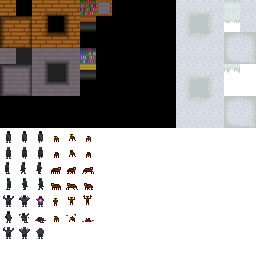
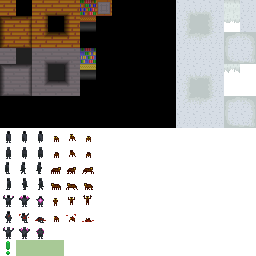
Add: Particles.

Changed region(s): [[0.0, 0.9375, 0.25, 1.0]]

diff --git a/js/particles.js b/js/particles.js
@@ -1,0 +1,62 @@
+var paList;
+
+function paGlobals() {
+	paList = [];
+}
+
+function paBloodHit(x, y, hp) {
+}
+
+function paSpawn(x, y) {
+}
+
+function paInfo(x, y) {
+	paList.push(new Particle(
+				TEX_INFO,
+				2.0, x, y, 0.4,
+				0.0, 0.0, 0.15,
+				0.1, 0.0));
+}
+
+function paFrameRender(ft) {
+	for (var i=0; i<paList.length; i++) {
+		if (!paList[i].frame(ft)) {
+			paList.splice(i, 1);
+			i--;
+		} else {
+			paList[i].render();
+		}
+	}
+}
+
+function Particle(texId, ttl, x, y, z, dX, dY, dZ, size, gravity) {
+	this.texId = texId;
+	this.ttl = ttl;
+	this.x = x;
+	this.y = y;
+	this.z = z;
+	this.dX = dX;
+	this.dY = dY;
+	this.dZ = dZ;
+	this.size = size;
+	this.gravity = gravity;
+}
+
+Particle.prototype.frame = function(ft) {
+	this.ttl -= ft;
+
+	if (this.gravity) {
+		this.dz -= this.gravity*ft;
+	}
+
+	this.x += this.dX*ft;
+	this.y += this.dY*ft;
+	this.z += this.dZ*ft;
+
+	return this.ttl > 0.0;
+};
+
+Particle.prototype.render = function() {
+	spPush(this.x, this.y, this.z, this.texId, this.size);
+};
+

diff --git a/js/creeps.js b/js/creeps.js
@@ -1,14 +1,18 @@
 var crList;
 
-function crSpawnMunk(x, y) {
-	crList.push(new Creep(TEAM_MONK, x, y, 0.4, 0.4, makeBrianSpeaker,
-				new Walker(3.0,
-					animation(getTexId(0, 8), 3),
-					animation(getTexId(0, 9), 3),
-					animation(getTexId(0, 10), 3),
-					animation(getTexId(0, 11), 3),
-					animation(getTexId(0, 12), 3),
-					animation(getTexId(0, 13), 3))));
+function crSpawnMunk(x, y, infoMsg) {
+	var cr = new Creep(TEAM_MONK, x, y, 0.4, 0.4, makeBrianSpeaker,
+			new Walker(3.0,
+				animation(getTexId(0, 8), 3),
+				animation(getTexId(0, 9), 3),
+				animation(getTexId(0, 10), 3),
+				animation(getTexId(0, 11), 3),
+				animation(getTexId(0, 12), 3),
+				animation(getTexId(0, 13), 3)));
+	if (infoMsg) {
+		cr.info = infoMsg;
+	}
+	crList.push(cr);
 }
 
 function crSpawnWolf(x, y) {

diff --git a/js/sprites.js b/js/sprites.js
@@ -6,13 +6,6 @@ var spVbo;
 function spGlobals() {
 	spList = new Float32Array((spMax + 2)*spElems);
 	spCount = 0;
-	/*
-	spList[spCount++] = 2.0;
-	spList[spCount++] = 2.0;
-	spList[spCount++] = 0.2;
-	spList[spCount++] = 0.4;
-	spList[spCount++] = 0;
-	spList[spCount++] = 8;*/
 
 	spVbo = gl.createBuffer(gl.ARRAY_BUFFER);
 	gl.bindBuffer(gl.ARRAY_BUFFER, spVbo);
@@ -41,18 +34,6 @@ function spPush(x, y, z, texId, size) {
 	spList[spCount++] = size;
 	spList[spCount++] = u;
 	spList[spCount++] = v;
-
-	/*
-	spList[spCount++] = x;
-	spList[spCount++] = y;
-	spList[spCount++] = z;
-	spList[spCount++] = 1.0;
-
-	var u = (texId % tex0Dim) * tex0DimInv;
-	var v = Math.floor(texId / tex0Dim) * tex0DimInv;
-	spList[spCount++] = u;
-	spList[spCount++] = v;
-	spList*/
 }
 
 function spRender() {

diff --git a/js/maps.js b/js/maps.js
@@ -29,7 +29,8 @@ function mapsPopulate(obj, cx, cy) {
 			break;
 
 		case 'munk' :
-			crSpawnMunk(cx, cy);
+			var info = obj.name == '' ? null : obj.name;
+			crSpawnMunk(cx, cy, info);
 			break;
 
 		case 'wolf' :
@@ -105,6 +106,7 @@ function mapsLoad(name) {
 	}
 
 	plHaltControl();
+	paSpawn(plX, plY);
 }
 
 function mapsProxTest() {

diff --git a/js/main.js b/js/main.js
@@ -26,6 +26,8 @@ function frame(ft) {
 	crFrame(ft);
 	crRender();
 	plRender();
+	paFrameRender(ft);
+
 	spRender();
 
 	proxTest -= ft;
@@ -42,6 +44,7 @@ function downloaded() {
 	mapsGlobals();
 	plGlobals();
 	spGlobals();
+	paGlobals();
 
 	gl.bindTexture(gl.TEXTURE_2D, tex0);
 

diff --git a/gen/tex0.js b/gen/tex0.js
@@ -179,7 +179,7 @@
                 }, 
                 {
                  "height":3.75,
-                 "name":"",
+                 "name":"Hello",
                  "properties":
                     {
 

diff --git a/js/brian.js b/js/brian.js
@@ -27,6 +27,9 @@ function makeBrianSpeaker(cr) {
 			} else {
 				cr.noWalk();
 				cr.idle();
+				if (cr.info) {
+					paInfo(cr.x, cr.y);
+				}
 			}
 
 			return 0.500 + Math.random()*3.0;

diff --git a/js/texs.js b/js/texs.js
@@ -8,4 +8,5 @@ function getTexId(x, y) {
 }
 
 var TEX_MUNK = getTexId(0, 8);
+var TEX_INFO = getTexId(0, 15);
 
